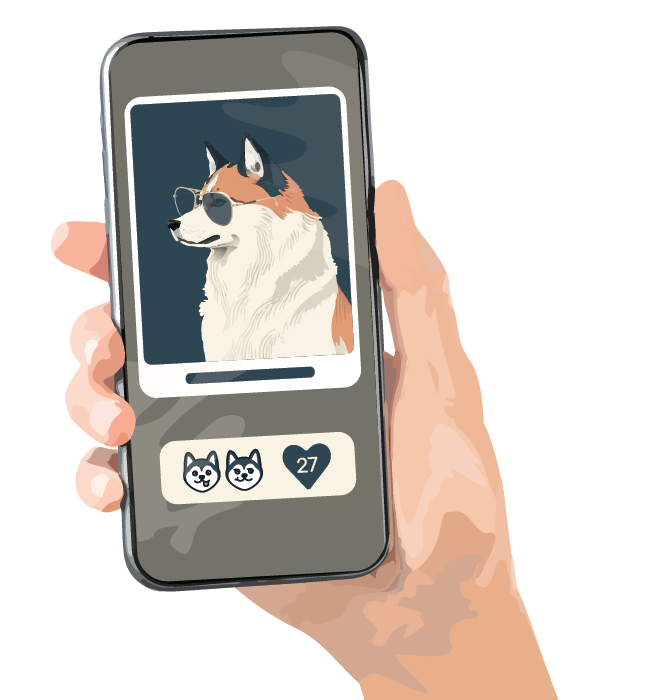
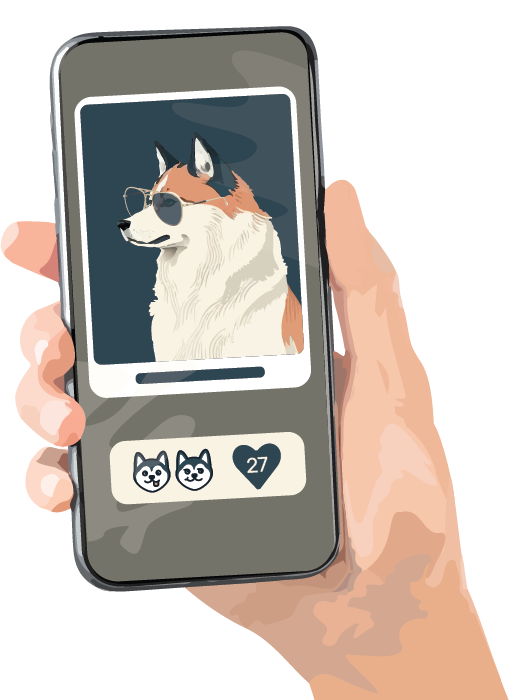
Share section now responsive, other bugfixes

diff --git a/src/components/homepagecomp/ShareSection.jsx b/src/components/homepagecomp/ShareSection.jsx
@@ -1,52 +1,72 @@
-import Emoji from '../gallerycomp/Emoji'
-
 const ShareSection = () => {
   return (
-    <div className="z-50 flex h-[800px] w-full flex-col items-center  bg-sand dark:bg-darkblue ">
-      <h2 className="mt-10 font-header text-4xl text-blue dark:text-peach 2xl:text-5xl">Share your own husky!</h2>
-      <div className=" ml-0 grid h-full grid-cols-3 ">
-        <section className="relative z-30 my-20 font-body text-xl text-cream ">
+    <div className="z-50 flex h-[900px] w-full flex-col items-center bg-sand  dark:bg-darkblue md:h-[800px] ">
+      <h2 className="mt-10 font-header text-3xl text-blue dark:text-peach sm:text-4xl xl:text-5xl">
+        Share your own husky!
+      </h2>
+      <div className="grid h-full w-full grid-cols-2 font-body text-cream md:w-auto md:grid-cols-3 md:text-lg lg:mr-96 xl:mr-40 2xl:mr-0 2xl:text-xl">
+        <section className="relative z-30 w-80 sm:ml-36 md:my-20 md:ml-0 md:w-80  lg:w-auto">
           <img
-            className="absolute top-5 -right-28 z-0 h-28 w-24 -rotate-6 transition duration-300 ease-in-out hover:rotate-6"
+            className="absolute top-6 -right-8 z-20 h-28 w-24 rotate-6 p-3 transition duration-300 ease-in-out
+             hover:rotate-6 md:right-0 md:top-7 md:z-0 md:-rotate-6 lg:-right-28"
             src="src/assets/emojis/relaxed.png"
             alt=""
           />
           <img
-            className="absolute top-[190px] right-0 z-40 h-24 w-20 -rotate-12 transition duration-300 ease-in-out hover:rotate-12"
+            className="absolute left-16 top-[300px] z-40 h-20 w-[68px] -rotate-12 transition duration-300
+             ease-in-out hover:rotate-12 md:left-auto md:right-28 md:top-[190px] md:h-24 md:w-20 lg:right-0"
             src="src/assets/emojis/mischievous.png"
             alt=""
           />
-          <div className="absolute -right-16 top-28 ml-0 w-64 rounded-xl bg-blue p-5 ">
+          <div
+            className="absolute left-6 top-6 ml-0 w-64 rounded-xl bg-blue p-3  md:left-auto md:right-8
+           md:top-28 md:p-5 lg:-right-16 lg:-right-16 ">
             Choose all kinds of emotions for your snap
           </div>
           <img
-            className="absolute bottom-60 -right-40 h-20 w-[68px] rotate-12 transition duration-300 ease-in-out hover:-rotate-12"
+            className="absolute -right-0 bottom-96 h-20 w-[68px] rotate-12 transition duration-300 ease-in-out
+             hover:-rotate-12 md:bottom-32 lg:bottom-60 lg:-right-40 lg:-right-40"
             src="src/assets/emojis/excited.png"
             alt=""
           />
-          <div className="absolute -right-28 bottom-10 ml-0 w-72 rounded-xl bg-blue p-5 ">
+          <div
+            className="absolute top-28 -right-6 ml-0 w-72 rounded-xl bg-blue p-3 md:top-auto md:left-20
+           md:-bottom-10 md:p-5 lg:left-auto lg:-right-28 lg:bottom-10 ">
             Customize your profile and create your own gallery
           </div>
         </section>
-        <section className="relative z-0  w-[1000px]">
+        <section className=" z-0 w-auto md:static lg:relative lg:w-[700px]">
           <img
-            className="h-15 absolute bottom-64 left-44 w-14 -rotate-12 transition duration-300 ease-in-out hover:rotate-12"
+            className="h-15 absolute bottom-96 right-28 z-40 w-14 -rotate-12 transition duration-300
+             ease-in-out hover:rotate-12 sm:hidden md:bottom-32 md:left-96
+             md:block  lg:bottom-64 lg:left-44"
             src="src/assets/emojis/stubborn.png"
             alt=""
           />
-          <img className="ml-16 mt-3  dark:hidden" src="src/assets/illustrations/landingshare.png" alt="sharehusky" />
           <img
-            className="ml-16 mt-3 hidden dark:block"
+            className="absolute bottom-[120px] right-0 w-[350px] dark:hidden sm:right-40  md:right-0
+              md:bottom-20 md:ml-28 md:mt-5  md:w-auto lg:static xl:mt-3"
+            src="src/assets/illustrations/landingshare.png"
+            alt="sharehusky"
+          />
+          <img
+            className="absolute bottom-[120px] right-0 hidden w-[350px] dark:block sm:right-40  md:right-0
+               md:bottom-20 md:ml-28 md:mt-5 md:w-auto lg:static xl:mt-3"
             src="src/assets/illustrations/landingsharedark.png"
             alt="sharehusky"
           />
-        </section>
-        <section className="relative font-body text-xl text-cream ">
-          <div className="absolute top-20 -left-40 w-72 rounded-xl bg-blue p-5 text-left  ">
+          <div
+            className="absolute bottom-[670px] left-6 w-72 rounded-xl bg-blue p-3 text-left sm:left-28 
+          md:left-4 md:bottom-80 md:p-5 lg:bottom-auto lg:left-auto lg:top-20 lg:-right-12 xl:-right-20  ">
             Check other users' profiles by clicking on their name
           </div>
-          <div className="absolute -left-10 bottom-48 ml-0 w-52 rounded-xl bg-blue p-5 ">Like other doggos</div>
+          <div
+            className="absolute bottom-[605px] left-44 ml-0 w-40 rounded-xl bg-blue p-3 sm:left-72
+           md:left-24 md:bottom-[700px] md:w-52 md:p-5 lg:left-auto lg:bottom-48 lg:-right-24 xl:-right-28 ">
+            Like other doggos
+          </div>
         </section>
+        <section className="relative hidden font-body text-xl text-cream md:block "></section>
       </div>
     </div>
   )

diff --git a/src/components/homepagecomp/FooterSection.jsx b/src/components/homepagecomp/FooterSection.jsx
@@ -1,24 +1,38 @@
 import { Link } from 'react-router-dom'
 const FooterSection = () => {
   return (
-    <div className="z-10 flex h-[120px] w-full items-center justify-center bg-cream  dark:bg-blue md:h-[80px]">
+    <div className="z-10 flex h-[120px] w-full items-center justify-center bg-cream  dark:bg-blue md:h-[80px] lg:h-14 xl:h-[80px]">
       <div
         className="ml-5 mr-2 flex w-full items-center justify-between font-body text-sm text-darkblue
-         dark:text-cream  sm:mx-8 sm:justify-between  sm:gap-6 md:mx-12 md:text-base xl:text-lg 2xl:w-3/4">
+         dark:text-cream  sm:mx-8 sm:justify-between  sm:gap-6 md:mx-12 md:text-sm lg:mx-6 xl:text-base 2xl:w-5/6 ">
         <div className="flex flex-col gap-2  md:flex-row md:gap-4 xl:gap-8">
           <div>
-            <Link to="privacypolicy"> Privacy Policy</Link>
+            <Link className="underline" to="privacypolicy">
+              Privacy Policy
+            </Link>
           </div>
 
           <div>
-            <Link to="cookiepolicy"> Cookie Policy</Link>
+            <Link className="underline" to="cookiepolicy">
+              Cookie Policy
+            </Link>
           </div>
           <div>
-            <Link to="termsconditions"> Terms and conditions</Link>
+            <Link className="underline" to="termsconditions">
+              Terms and conditions
+            </Link>
           </div>
         </div>
-        <div className="flex flex-col gap-2 text-right   text-xs sm:text-sm md:text-base lg:flex-row lg:gap-6 xl:gap-10">
+        <div
+          className="flex flex-col gap-2 text-right  text-xs sm:text-sm md:gap-1 lg:flex-row  lg:gap-6 lg:text-sm xl:gap-10
+         xl:text-base">
+          <div>
+            <a className="w-auto underline" href="https://github.com/SLorant/Snowy-Snaps" target="_blank">
+              View GitHub page
+            </a>
+          </div>
           <div>contact.snowysnaps@gmail.com</div>
+
           <div>
             <p className="hidden sm:inline">Copyright</p> © 2023 Lóránt Sutus{' '}
           </div>

diff --git a/src/components/homepagecomp/ShowCaseImages.jsx b/src/components/homepagecomp/ShowCaseImages.jsx
@@ -22,11 +22,11 @@ const ShowCaseImages = ({ move, setMove }) => {
 
   return (
     <motion.div
-      className="clip-img group z-20 mt-6 h-[550px] w-[300px] rounded-md bg-sand dark:bg-darkblue  sm:mt-12 sm:h-[550px] sm:w-[550px] 
+      className="clip-img group z-20 mt-6  h-[550px] w-[300px] rounded-md bg-sand dark:bg-darkblue  sm:mt-12 sm:h-[550px] sm:w-[550px] 
       md:h-[620px]  md:w-[620px]  xl:mb-24 xl:h-[550px] xl:w-[550px] 2xl:h-[620px] 2xl:w-[620px]  "
       initial={{ opacity: 0 }}
       animate={{ opacity: 1, delay: 1 }}>
-      <div className="group relative top-0 left-0 z-20 flex h-full w-full rounded-md dark:opacity-80    ">
+      <div className="group relative top-0 left-0 z-20 flex h-full w-full rounded-md     ">
         <div
           onMouseOver={() => setMove(true)}
           onMouseOut={() => setMove(false)}
@@ -35,7 +35,7 @@ const ShowCaseImages = ({ move, setMove }) => {
           className="imagecontainer absolute top-0 left-0 z-50 h-full w-full   rounded-md bg-transparent">
           <div
             className="absolute bottom-5 left-14 z-50 cursor-pointer drop-shadow-lg dark:opacity-100 sm:hidden
-           xl:bottom-7 xl:block 2xl:bottom-9 2xl:left-44">
+           xl:bottom-7 xl:left-36 xl:block 2xl:bottom-9 2xl:left-44">
             <ShowCaseButton title="Show me more" link="/watch" />
           </div>
         </div>

diff --git a/src/components/homepagecomp/ShowCaseButton.jsx b/src/components/homepagecomp/ShowCaseButton.jsx
@@ -8,8 +8,8 @@ const ShowCaseButton = ({ title, link }) => {
       <motion.div whileHover={{ scale: 1.1, transition: { duration: 0.2 } }}>
         <button
           className="rounded-md bg-cream py-2 px-4 text-center font-header text-2xl text-blue hover:bg-blue 
-          hover:text-peach dark:bg-blue dark:text-cream dark:hover:bg-blue dark:hover:text-peach  sm:py-3  sm:px-6
-          sm:text-3xl xl:hover:bg-cream  xl:hover:text-blue 2xl:text-3xl "
+          hover:text-peach dark:bg-blue dark:text-cream dark:hover:text-peach  sm:py-3 sm:px-6  sm:text-3xl  dark:sm:bg-darkblue
+          xl:hover:bg-cream xl:hover:text-blue  dark:xl:bg-blue 2xl:text-3xl "
           onClick={() => {
             navigate(link)
           }}>

diff --git a/src/components/gallerycomp/GalleryFilter.jsx b/src/components/gallerycomp/GalleryFilter.jsx
@@ -45,13 +45,13 @@ const GalleryFilter = ({ emotions, setOrder, emotionArray, setEmotionArray, setI
             Filter and Sort
             <motion.img
               src="src\assets\icons\downarrow.png"
-              className="ml-4 w-6 dark:hidden"
+              className="ml-4 w-7 dark:hidden"
               alt=""
               animate={{ rotate: mobileFilterOpened ? 180 : 0 }}
             />
             <motion.img
               src="src\assets\icons\downarrowdark.png"
-              className="ml-4 hidden w-6 dark:block"
+              className="ml-4 hidden w-7 dark:block"
               alt=""
               animate={{ rotate: mobileFilterOpened ? 180 : 0 }}
             />

diff --git a/src/components/headercomp/Header.jsx b/src/components/headercomp/Header.jsx
@@ -200,12 +200,11 @@ const Header = () => {
             <LogoutIcon />
           </div>
         </div>
-        {/* <DarkModeToggle /> */}
         {currentUser ? (
           <MobileHeaderUserInfo showMenu={showMenu} setShowMenu={setShowMenu} username={username} />
         ) : (
-          <div className="right-2 z-50 mr-2 flex hidden h-full  md:block xl:mr-12">
-            <div className="absolute right-52 hidden md:block">
+          <div className="right-2 z-50 mr-2 flex hidden h-full  md:block xl:mr-10">
+            <div className="absolute right-24 hidden md:block lg:right-28 xl:right-44 2xl:right-48">
               <DarkModeToggle />
             </div>
 

diff --git a/src/components/homepagecomp/LearnSection.jsx b/src/components/homepagecomp/LearnSection.jsx
@@ -8,8 +8,8 @@ const LearnSection = () => {
   return (
     <div
       className="z-40 flex w-full flex-col items-center bg-white shadow-[0px_3px_10px_2px_rgba(0,0,0,0.3)]
-        dark:bg-darkblue md:shadow-none xl:mt-0 xl:w-full xl:bg-cream dark:xl:bg-blue">
-      <h2 className="mt-12 font-header text-3xl text-blue dark:text-peach sm:text-4xl 2xl:mt-14 2xl:text-5xl">
+       dark:bg-sand md:shadow-none  xl:mt-0 xl:w-full xl:bg-cream dark:xl:bg-blue">
+      <h2 className="mt-12 font-header text-3xl text-blue dark:text-blue sm:text-4xl dark:xl:text-peach 2xl:mt-14 2xl:text-5xl">
         Learn about huskies
       </h2>
       <div

diff --git a/src/components/profilecomp/mysnaps/MySnaps.jsx b/src/components/profilecomp/mysnaps/MySnaps.jsx
@@ -62,7 +62,7 @@ const MySnaps = () => {
       <div className="mt-32 flex flex-col items-center justify-center">
         <h1
           className={`${
-            user.galleryText.length > 15 ? ' text-4xl' : 'text-5xl'
+            user.galleryText.length > 15 ? (user.galleryText.length > 20 ? 'text-3xl' : ' text-4xl') : 'text-5xl'
           }  font-header text-blue dark:text-peach `}>{`${user.galleryText}`}</h1>
         <div className="mt-2 flex w-full items-center justify-center md:gap-4 lg:w-4/5 lg:gap-10  xl:w-3/4 xl:gap-20 2xl:gap-40 ">
           <div className={`${canUpload ? 'visible' : 'invisible'} mt-1  lg:w-60`}>

diff --git a/src/components/homepagecomp/WatchSection.jsx b/src/components/homepagecomp/WatchSection.jsx
@@ -20,7 +20,7 @@ const WatchSection = () => {
         <div className=" flex w-full items-center justify-center">
           <ShowCaseImages move={move} setMove={setMove} />
         </div>
-        <div className="mt-4 mb-96 flex hidden items-center justify-center drop-shadow-lg sm:mt-4 sm:mb-28  sm:block md:mt-8 md:mb-12  xl:hidden ">
+        <div className="mt-4 mb-96 flex hidden items-center justify-center  drop-shadow-lg sm:mt-4 sm:mb-28  sm:block md:mt-8 md:mb-12  xl:hidden ">
           <ShowCaseButton title="Show me more" link="/watch" />
         </div>
       </div>

diff --git a/src/components/headercomp/MobileHeaderUserInfo.jsx b/src/components/headercomp/MobileHeaderUserInfo.jsx
@@ -14,7 +14,7 @@ const MobileHeaderUserInfo = ({ showMenu, setShowMenu, username }) => {
     <div
       className={`${
         showMenu
-          ? 'absolute top-32 left-8 flex w-full items-center justify-center'
+          ? 'absolute top-32 left-16 flex w-full items-center justify-center'
           : 'flex h-full w-full items-start justify-center md:w-auto'
       }`}>
       <div className="hidden md:block">
